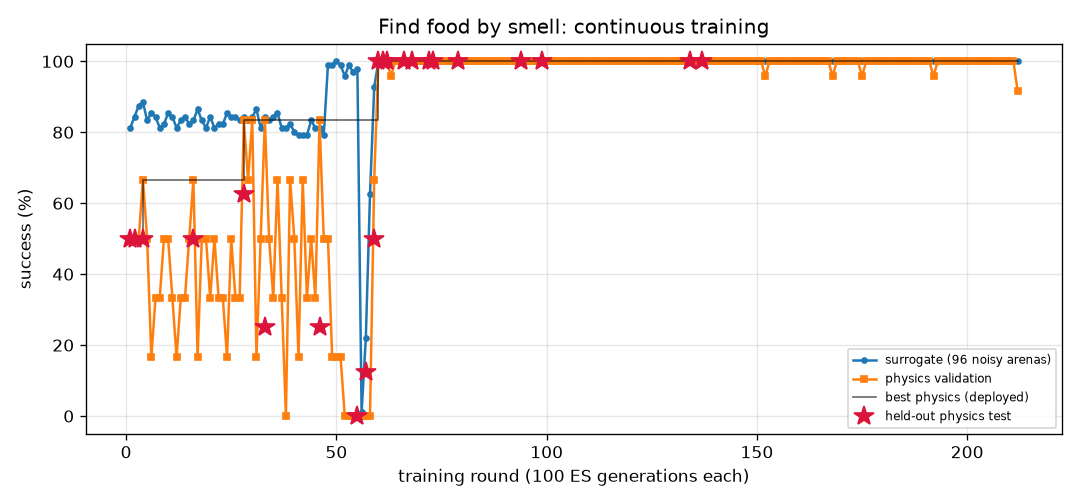
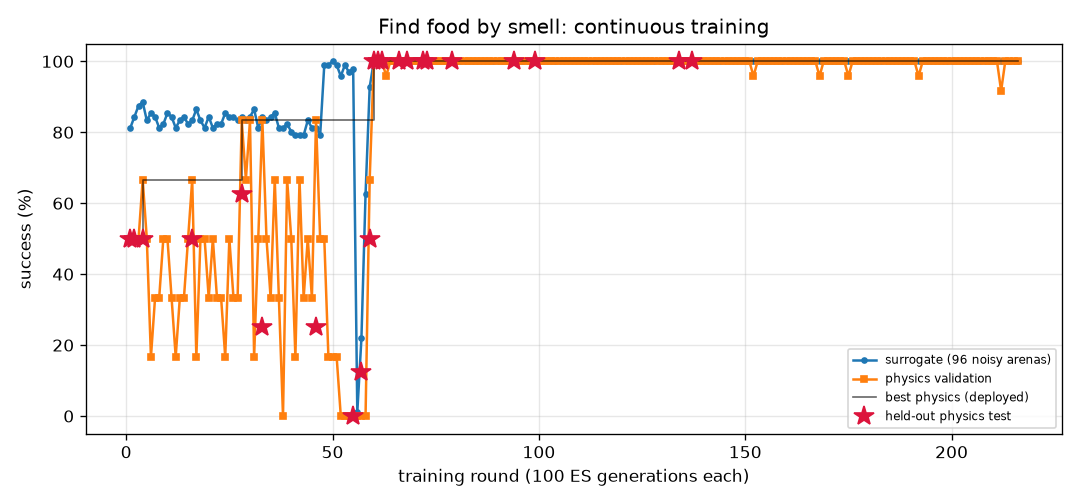
FlyLab: continuous training progress
- walk_forward: optimal, physics val 100% of 24, round 329
- turn: optimal, physics val 100% of 24, round 931
- goto: optimal, physics val 100% of 24, round 263
- odor_seek: optimal, physics val 100% of 24, round 216
- odor_avoid: optimal, physics val 100% of 24, round 837
- light_seek: optimal, physics val 100% of 24, round 458
- light_avoid: optimal, physics val 100% of 24, round 569

diff --git a/projects/09_flylab/training/turn/REPORT.md b/projects/09_flylab/training/turn/REPORT.md
@@ -1,14 +1,14 @@
 # Turn in place (`turn`) — training report
 
-*Auto-generated by `train_brains.py`, last updated 2026-11-08T10:05:01.*
+*Auto-generated by `train_brains.py`, last updated 2026-11-08T13:58:08.*
 
 ![curve](curve.png)
 
 | | |
 |---|---|
-| rounds | 925 |
-| ES generations | 92500 |
-| physics runs | 22446 |
+| rounds | 931 |
+| ES generations | 93100 |
+| physics runs | 22590 |
 | status | **optimal** |
 | best brain | round 80: physics validation **100%** on 24 arenas, surrogate 100% |
 | held-out physics test | **97%** on 32 unseen arenas (95% CI 84%-99%) (errors: [1.6, 3.3, 6.3, 3.7, 1.1, 0.4, 2.4, 2.9, 0.1, 2.6, 0.5, 2.7, 1.5, 3.1, 4.5, 0.2, 0.5, 1.1, 2.0, 4.4, 2.8, 3.2, 0.3, 2.2, 0.5, 3.0, 0.3, 5.4, 0.4, 1.0, 4.7, 10.7]) |
@@ -17,12 +17,6 @@ Physics error per arena: deg from target heading (< 20 = success).
 
 | round | level | gens | sigma | surrogate | physics val | val errors | test | note |
 |---:|---:|---:|---:|---:|---:|---|---:|---|
-| 886 | 3 | 88600 | 0.025 | 98% | 75% | [6.5, 9.0, 10.1, 0.7, 3.6, 3.9, 4.2, 0.9, 3.7, 0.9, 2.7, 2.0, 0.0, 4.9, 2.6, 1.3, 2.3, 0.5, 2.8, 1.2, 6.3, 1.3, 2.2, 0.4] |  |  |
-| 887 | 3 | 88700 | 0.025 | 100% | 96% | [1.9, 2.7, 7.1, 0.4, 15.7, 6.4, 8.6, 10.0, 8.6, 1.3, 4.6, 2.0, 0.8, 0.7, 5.5, 5.3, 2.0, 4.6, 2.8, 5.1, 1.7, 2.7, 6.1, 6.5] |  |  |
-| 888 | 3 | 88800 | 0.024 | 100% | 83% | [2.6, 1.7, 4.0, 1.7, 2.1, 0.1, 5.6, 8.1, 5.9, 0.4, 4.5, 0.8, 1.1, 0.9, 3.4, 0.7, 1.1, 1.2, 0.5, 1.5, 4.5, 3.4, 8.0, 7.1] |  | restart from best |
-| 889 | 3 | 88900 | 0.024 | 99% | 83% | [2.9, 5.1, 2.5, 1.7, 3.5, 2.5, 4.5, 2.6, 4.8, 0.1, 6.2, 0.9, 0.5, 3.5, 4.7, 0.7, 0.8, 0.2, 0.7, 0.3, 3.9, 0.3, 7.0, 5.5] |  |  |
-| 890 | 3 | 89000 | 0.025 | 97% | 75% | [2.1, 9.0, 0.1, 2.0, 9.1, 1.2, 3.6, 7.9, 3.8, 0.6, 3.1, 3.0, 1.4, 3.6, 2.3, 2.6, 3.0, 0.9, 3.6, 1.1, 5.6, 1.4, 2.4, 4.1] |  |  |
-| 891 | 3 | 89100 | 0.026 | 99% | 88% | [7.6, 8.8, 4.9, 0.9, 3.2, 2.8, 2.0, 0.2, 2.6, 0.1, 2.6, 0.7, 0.7, 4.2, 2.1, 1.6, 0.1, 0.2, 2.3, 0.0, 7.1, 1.7, 3.0, 1.0] |  |  |
 | 892 | 3 | 89200 | 0.025 | 99% | 83% | [7.9, 8.2, 4.1, 0.1, 2.8, 1.9, 5.8, 3.8, 4.3, 0.8, 3.5, 1.5, 0.5, 1.8, 3.6, 1.5, 1.5, 1.0, 0.0, 1.4, 6.3, 4.0, 4.0, 3.3] |  | restart from best |
 | 893 | 3 | 89300 | 0.024 | 99% | 79% | [7.8, 9.4, 3.5, 4.6, 4.4, 1.6, 4.2, 0.5, 3.6, 1.4, 4.2, 1.7, 0.8, 3.0, 3.3, 0.7, 1.2, 0.7, 0.7, 1.0, 8.4, 0.3, 3.0, 2.3] |  |  |
 | 894 | 3 | 89400 | 0.025 | 99% | 88% | [1.3, 7.8, 0.2, 2.0, 1.0, 0.5, 4.2, 4.5, 3.8, 1.2, 2.6, 2.9, 2.3, 4.3, 3.5, 1.0, 1.5, 0.7, 1.0, 0.4, 4.6, 2.4, 2.9, 2.3] |  |  |
@@ -57,3 +51,9 @@ Physics error per arena: deg from target heading (< 20 = success).
 | 923 | 3 | 92300 | 0.024 | 99% | 75% | [9.3, 8.0, 4.4, 1.8, 2.2, 1.4, 3.1, 0.3, 1.1, 0.2, 4.0, 1.6, 4.0, 2.9, 3.4, 1.5, 0.9, 0.4, 1.3, 1.4, 6.7, 0.4, 3.9, 3.3] |  |  |
 | 924 | 3 | 92400 | 0.025 | 100% | 88% | [5.6, 3.4, 8.0, 2.9, 0.7, 4.3, 9.5, 8.2, 9.5, 1.6, 6.7, 4.6, 2.9, 0.0, 5.0, 3.9, 4.3, 4.0, 4.2, 4.3, 0.5, 0.8, 5.5, 8.7] |  | restart from best |
 | 925 | 3 | 92500 | 0.024 | 98% | 71% | [8.1, 6.7, 1.8, 3.0, 1.6, 1.4, 4.9, 1.6, 5.4, 0.5, 5.0, 1.0, 0.4, 0.1, 4.5, 0.1, 0.3, 2.3, 0.9, 1.9, 7.5, 0.8, 3.1, 0.8] |  |  |
+| 926 | 3 | 92600 | 0.025 | 99% | 96% | [4.9, 4.7, 3.0, 0.4, 1.4, 117.7, 3.6, 7.7, 6.0, 0.8, 3.9, 1.3, 3.6, 2.4, 2.7, 0.6, 0.9, 1.3, 2.2, 6.9, 5.0, 0.8, 5.4, 6.2] |  |  |
+| 927 | 3 | 92700 | 0.025 | 98% | 83% | [1.7, 3.6, 5.2, 1.0, 2.6, 3.3, 7.2, 4.4, 7.2, 1.7, 5.7, 0.9, 0.2, 1.6, 4.6, 2.5, 0.7, 1.2, 3.9, 8.5, 4.7, 0.9, 4.4, 3.0] |  |  |
+| 928 | 3 | 92800 | 0.025 | 100% | 83% | [1.6, 2.2, 4.1, 3.2, 0.1, 0.5, 7.1, 8.3, 6.1, 0.7, 5.4, 1.1, 0.4, 2.1, 5.0, 3.2, 0.9, 1.5, 3.3, 1.7, 3.1, 1.4, 6.9, 1.8] |  | restart from best |
+| 929 | 3 | 92900 | 0.024 | 100% | 83% | [7.8, 8.1, 5.2, 1.6, 12.0, 1.3, 4.8, 1.3, 3.9, 0.9, 3.1, 2.5, 1.1, 4.5, 4.3, 1.0, 2.4, 0.1, 1.2, 0.7, 7.1, 0.5, 4.2, 3.5] |  |  |
+| 930 | 3 | 93000 | 0.024 | 99% | 79% | [2.9, 7.4, 2.8, 0.4, 1.8, 1.6, 3.4, 2.4, 5.5, 0.2, 4.0, 0.5, 1.5, 0.9, 3.8, 1.0, 0.6, 0.6, 1.2, 1.6, 3.9, 2.9, 4.2, 5.3] |  |  |
+| 931 | 3 | 93100 | 0.025 | 100% | 88% | [7.1, 10.7, 0.9, 1.1, 3.8, 1.5, 3.3, 5.1, 2.4, 3.0, 3.0, 3.0, 0.5, 5.4, 2.8, 2.6, 2.6, 1.2, 3.8, 1.8, 4.9, 3.6, 2.5, 6.2] |  |  |

diff --git a/projects/09_flylab/training/odor_seek/REPORT.md b/projects/09_flylab/training/odor_seek/REPORT.md
@@ -1,14 +1,14 @@
 # Find food by smell (`odor_seek`) — training report
 
-*Auto-generated by `train_brains.py`, last updated 2026-11-07T21:30:55.*
+*Auto-generated by `train_brains.py`, last updated 2026-11-08T14:01:02.*
 
 ![curve](curve.png)
 
 | | |
 |---|---|
-| rounds | 212 |
-| ES generations | 21200 |
-| physics runs | 4518 |
+| rounds | 216 |
+| ES generations | 21600 |
+| physics runs | 4614 |
 | status | **optimal** |
 | best brain | round 137: physics validation **100%** on 24 arenas, surrogate 100% |
 | held-out physics test | **100%** on 32 unseen arenas (95% CI 89%-100%) (errors: [0.14, 0.05, 0.19, 0.15, 0.13, 0.08, 0.06, 0.06, 0.04, 0.06, 0.02, 0.11, 0.05, 0.1, 0.06, 0.01, 0.11, 0.12, 0.14, 0.08, 0.12, 0.06, 0.06, 0.09, 0.12, 0.05, 0.07, 0.07, 0.12, 0.11, 0.06, 0.11]) |
@@ -17,10 +17,6 @@ Physics error per arena: mm from target at the end (< 1.5 and standing still = s
 
 | round | level | gens | sigma | surrogate | physics val | val errors | test | note |
 |---:|---:|---:|---:|---:|---:|---|---:|---|
-| 173 | 3 | 17300 | 0.024 | 100% | 100% | [0.22, 0.23, 0.23, 0.23, 0.24, 0.24, 0.18, 0.26, 0.22, 0.21, 0.28, 0.24, 0.27, 0.19, 0.25, 0.26, 0.23, 0.23, 0.23, 0.25, 0.2, 0.19, 0.2, 0.22] |  | restart from best |
-| 174 | 3 | 17400 | 0.024 | 100% | 100% | [0.08, 0.11, 0.13, 0.09, 0.11, 0.08, 0.1, 0.12, 0.05, 0.11, 0.15, 0.13, 0.09, 0.13, 0.08, 0.12, 0.1, 0.13, 0.11, 0.06, 0.09, 0.08, 0.08, 0.1] |  |  |
-| 175 | 3 | 17500 | 0.024 | 100% | 96% | [0.19, 0.1, 0.19, 0.11, 0.12, 0.13, 0.09, 0.18, 0.18, 0.19, 0.11, 0.11, 0.12, 21.44, 0.18, 0.16, 0.13, 0.16, 0.12, 0.14, 0.09, 0.14, 0.14, 0.15] |  |  |
-| 176 | 3 | 17600 | 0.024 | 100% | 100% | [0.22, 0.17, 0.19, 0.16, 0.19, 0.17, 0.12, 0.24, 0.18, 0.22, 0.17, 0.23, 0.21, 0.2, 0.15, 0.23, 0.07, 0.16, 0.18, 0.14, 0.14, 0.15, 0.18, 0.23] |  |  |
 | 177 | 3 | 17700 | 0.024 | 100% | 100% | [0.17, 0.2, 0.2, 0.13, 0.22, 0.19, 0.23, 0.22, 0.25, 0.13, 0.23, 0.2, 0.16, 0.16, 0.21, 0.17, 0.18, 0.17, 0.18, 0.18, 0.2, 0.17, 0.21, 0.21] |  | restart from best |
 | 178 | 3 | 17800 | 0.024 | 100% | 100% | [0.16, 0.12, 0.17, 0.23, 0.26, 0.13, 0.16, 0.16, 0.11, 0.16, 0.12, 0.12, 0.12, 0.09, 0.19, 0.15, 0.17, 0.16, 0.15, 0.15, 0.16, 0.14, 0.15, 0.19] |  |  |
 | 179 | 3 | 17900 | 0.024 | 100% | 100% | [0.19, 0.14, 0.12, 0.24, 0.18, 0.2, 0.13, 0.14, 0.15, 0.15, 0.2, 0.12, 0.17, 0.17, 0.15, 0.12, 0.08, 0.16, 0.22, 0.19, 0.2, 0.17, 0.25, 0.17] |  |  |
@@ -57,3 +53,7 @@ Physics error per arena: mm from target at the end (< 1.5 and standing still = s
 | 210 | 3 | 21000 | 0.024 | 100% | 100% | [0.16, 0.19, 0.24, 0.17, 0.27, 0.21, 0.2, 0.22, 0.24, 0.2, 0.28, 0.15, 0.19, 0.17, 0.18, 0.21, 0.16, 0.21, 0.16, 0.24, 0.25, 0.21, 0.21, 0.2] |  |  |
 | 211 | 3 | 21100 | 0.024 | 100% | 100% | [0.2, 0.12, 0.12, 0.15, 0.14, 0.05, 0.21, 0.22, 0.13, 0.2, 0.19, 0.14, 0.19, 0.2, 0.22, 0.18, 0.17, 0.15, 0.14, 0.2, 0.17, 0.18, 0.22, 0.2] |  |  |
 | 212 | 3 | 21200 | 0.024 | 100% | 92% | [0.13, 0.18, 0.15, 0.18, 0.18, 0.18, 0.17, 0.23, 0.19, 0.21, 0.14, 0.14, 0.19, 4.9, 0.13, 0.15, 0.11, 0.19, 0.15, 0.11, 0.15, 0.12, 0.19, 11.67] |  |  |
+| 213 | 3 | 21300 | 0.024 | 100% | 100% | [0.19, 0.17, 0.17, 0.18, 0.16, 0.21, 0.2, 0.17, 0.16, 0.17, 0.18, 0.13, 0.15, 0.19, 0.16, 0.09, 0.13, 0.16, 0.18, 0.19, 0.14, 0.17, 0.23, 0.16] |  | restart from best |
+| 214 | 3 | 21400 | 0.024 | 100% | 100% | [0.06, 0.12, 0.12, 0.17, 0.08, 0.13, 0.13, 0.08, 0.18, 0.04, 0.08, 0.12, 0.12, 0.09, 0.15, 0.23, 0.08, 0.08, 0.17, 0.07, 0.14, 0.02, 0.03, 0.12] |  |  |
+| 215 | 3 | 21500 | 0.024 | 100% | 100% | [0.14, 0.19, 0.12, 0.07, 0.12, 0.17, 0.09, 0.09, 0.14, 0.11, 0.07, 0.1, 0.09, 0.1, 0.17, 0.07, 0.15, 0.13, 0.05, 0.1, 0.07, 0.17, 0.07, 0.14] |  |  |
+| 216 | 3 | 21600 | 0.024 | 100% | 100% | [0.14, 0.14, 0.13, 0.21, 0.13, 0.09, 0.12, 0.12, 0.11, 0.16, 0.13, 0.15, 0.16, 0.13, 0.18, 0.17, 0.18, 0.11, 0.18, 0.16, 0.24, 0.13, 0.12, 0.06] |  |  |

diff --git a/projects/09_flylab/training/goto/REPORT.md b/projects/09_flylab/training/goto/REPORT.md
@@ -1,14 +1,14 @@
 # Go to a location (`goto`) — training report
 
-*Auto-generated by `train_brains.py`, last updated 2026-11-08T13:01:28.*
+*Auto-generated by `train_brains.py`, last updated 2026-11-08T13:16:16.*
 
 ![curve](curve.png)
 
 | | |
 |---|---|
-| rounds | 262 |
-| ES generations | 26200 |
-| physics runs | 6238 |
+| rounds | 263 |
+| ES generations | 26300 |
+| physics runs | 6262 |
 | status | **optimal** |
 | best brain | round 176: physics validation **100%** on 24 arenas, surrogate 100% |
 | held-out physics test | **100%** on 32 unseen arenas (95% CI 89%-100%) (errors: [0.2, 0.32, 0.19, 0.24, 0.18, 0.2, 0.19, 0.17, 0.22, 0.23, 0.23, 0.26, 0.2, 0.19, 0.24, 0.23, 0.22, 0.24, 0.2, 0.22, 0.2, 0.2, 0.26, 0.19, 0.22, 0.18, 0.26, 0.22, 0.2, 0.26, 0.23, 0.23]) |
@@ -17,7 +17,6 @@ Physics error per arena: mm from target at the end (< 1.5 and standing still = s
 
 | round | level | gens | sigma | surrogate | physics val | val errors | test | note |
 |---:|---:|---:|---:|---:|---:|---|---:|---|
-| 223 | 3 | 22300 | 0.024 | 100% | 100% | [0.4, 0.42, 0.39, 0.38, 0.33, 0.35, 0.42, 0.39, 0.43, 0.33, 0.31, 0.36, 0.43, 0.34, 0.36, 0.4, 0.41, 0.35, 0.33, 0.43, 0.4, 0.34, 0.4, 0.38] |  |  |
 | 224 | 3 | 22400 | 0.024 | 100% | 100% | [0.61, 0.61, 0.55, 0.59, 0.51, 0.56, 0.64, 0.59, 0.63, 0.54, 0.53, 0.58, 0.63, 0.48, 0.6, 0.59, 0.67, 0.54, 0.54, 0.66, 0.56, 0.59, 0.63, 0.6] |  | restart from best |
 | 225 | 3 | 22500 | 0.024 | 99% | 100% | [0.48, 0.41, 0.32, 0.42, 0.3, 0.37, 0.46, 0.4, 0.48, 0.32, 0.32, 0.41, 0.48, 0.31, 0.37, 0.38, 0.49, 0.36, 0.32, 0.47, 0.33, 0.39, 0.46, 0.41] |  |  |
 | 226 | 3 | 22600 | 0.025 | 99% | 100% | [0.67, 0.61, 0.61, 0.49, 0.5, 0.52, 0.68, 0.52, 0.48, 0.52, 0.47, 0.48, 0.58, 0.49, 0.57, 0.57, 0.62, 0.54, 0.52, 0.55, 0.57, 0.51, 0.59, 0.51] |  |  |
@@ -57,3 +56,4 @@ Physics error per arena: mm from target at the end (< 1.5 and standing still = s
 | 260 | 3 | 26000 | 0.025 | 99% | 100% | [0.54, 0.57, 0.58, 0.46, 0.4, 0.46, 0.5, 0.54, 0.51, 0.4, 0.38, 0.43, 0.55, 0.44, 0.46, 0.46, 0.55, 0.46, 0.38, 0.52, 0.46, 0.39, 0.56, 0.48] |  | restart from best |
 | 261 | 3 | 26100 | 0.024 | 100% | 100% | [0.56, 0.54, 0.59, 0.51, 0.41, 0.48, 0.56, 0.54, 0.55, 0.46, 0.43, 0.49, 0.56, 0.45, 0.54, 0.51, 0.6, 0.47, 0.42, 0.55, 0.48, 0.47, 0.6, 0.5] |  |  |
 | 262 | 3 | 26200 | 0.024 | 99% | 100% | [0.43, 0.4, 0.37, 0.27, 0.3, 0.26, 0.41, 0.29, 0.39, 0.27, 0.27, 0.27, 0.37, 0.27, 0.35, 0.34, 0.4, 0.24, 0.26, 0.34, 0.31, 0.27, 0.37, 0.29] |  |  |
+| 263 | 3 | 26300 | 0.025 | 100% | 100% | [0.62, 0.56, 0.43, 0.53, 0.43, 0.5, 0.59, 0.59, 0.6, 0.46, 0.45, 0.51, 0.6, 0.46, 0.51, 0.52, 0.61, 0.52, 0.44, 0.55, 0.5, 0.45, 0.61, 0.5] |  |  |

diff --git a/projects/09_flylab/training/TRAINING.md b/projects/09_flylab/training/TRAINING.md
@@ -1,15 +1,15 @@
 # FlyLab brains — continuous training log
 
-*Auto-generated by `train_brains.py`, last updated 2026-11-08T13:01:28.*
+*Auto-generated by `train_brains.py`, last updated 2026-11-08T14:01:02.*
 
 Every skill has its own brain and its own training process: surrogate ES rounds, physics validation in MuJoCo, keep-the-best selection, and a held-out physics test that is never used for selection. See each skill's report for its full round-by-round history. Mastery is progressive: passing a level (100% physics validation, >=95% surrogate) doubles the validation and test arena sets; a brain is **optimal** once it holds up at level 3 (>=95% of 24 validation arenas) AND scores >=90% on the 32 held-out test arenas. Test columns show 95% Wilson confidence intervals.
 
 | skill | rounds | ES generations | physics runs | surrogate | physics val | **physics test** | status |
 |---|---:|---:|---:|---:|---:|---:|---|
 | [Walk forward](walk_forward/REPORT.md) | 329 | 32900 | 7910 | 100% | 100% of 24 | 100% of 32 (CI 89-100%) | **optimal** |
-| [Turn in place](turn/REPORT.md) | 925 | 92500 | 22446 | 100% | 100% of 24 | 97% of 32 (CI 84-99%) | **optimal** |
-| [Go to a location](goto/REPORT.md) | 262 | 26200 | 6238 | 100% | 100% of 24 | 100% of 32 (CI 89-100%) | **optimal** |
-| [Find food by smell](odor_seek/REPORT.md) | 212 | 21200 | 4518 | 100% | 100% of 24 | 100% of 32 (CI 89-100%) | **optimal** |
+| [Turn in place](turn/REPORT.md) | 931 | 93100 | 22590 | 100% | 100% of 24 | 97% of 32 (CI 84-99%) | **optimal** |
+| [Go to a location](goto/REPORT.md) | 263 | 26300 | 6262 | 100% | 100% of 24 | 100% of 32 (CI 89-100%) | **optimal** |
+| [Find food by smell](odor_seek/REPORT.md) | 216 | 21600 | 4614 | 100% | 100% of 24 | 100% of 32 (CI 89-100%) | **optimal** |
 | [Escape a bad smell](odor_avoid/REPORT.md) | 837 | 83700 | 17394 | 97% | 100% of 24 | 97% of 32 (CI 84-99%) | **optimal** |
 | [Walk toward light](light_seek/REPORT.md) | 458 | 45800 | 7872 | 100% | 100% of 24 | 100% of 32 (CI 89-100%) | **optimal** |
 | [Hide from light](light_avoid/REPORT.md) | 569 | 56900 | 13928 | 100% | 100% of 24 | 100% of 32 (CI 89-100%) | **optimal** |
